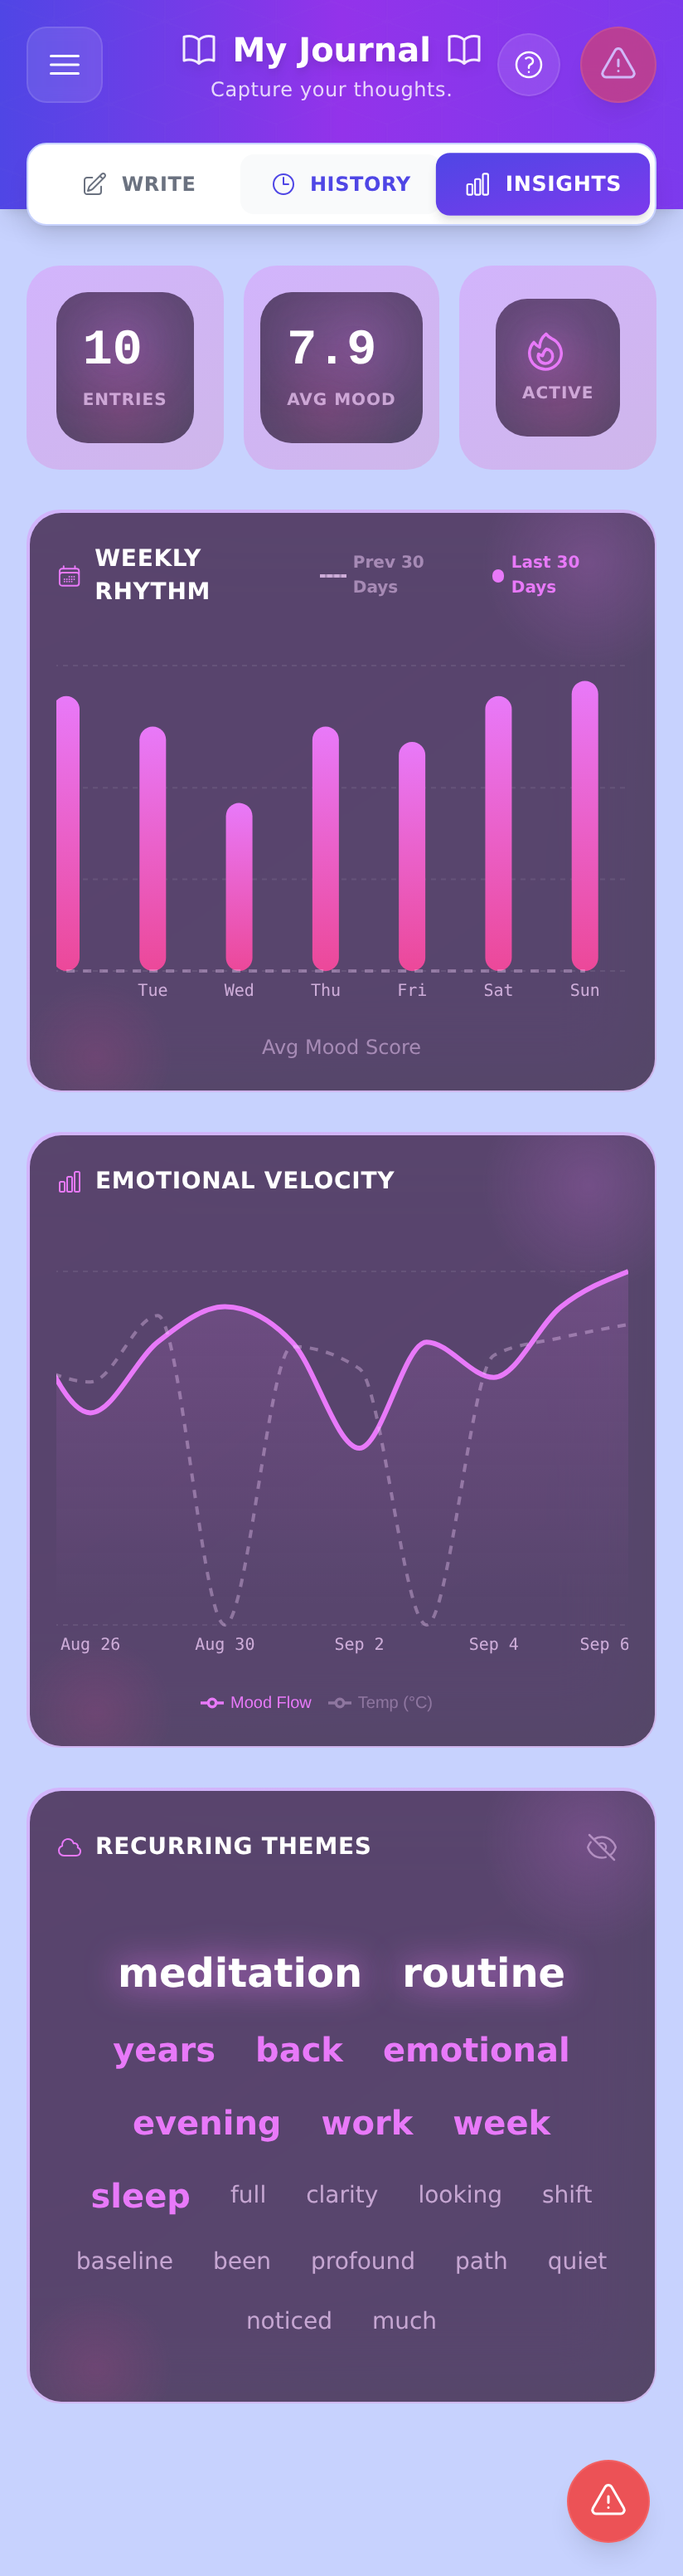
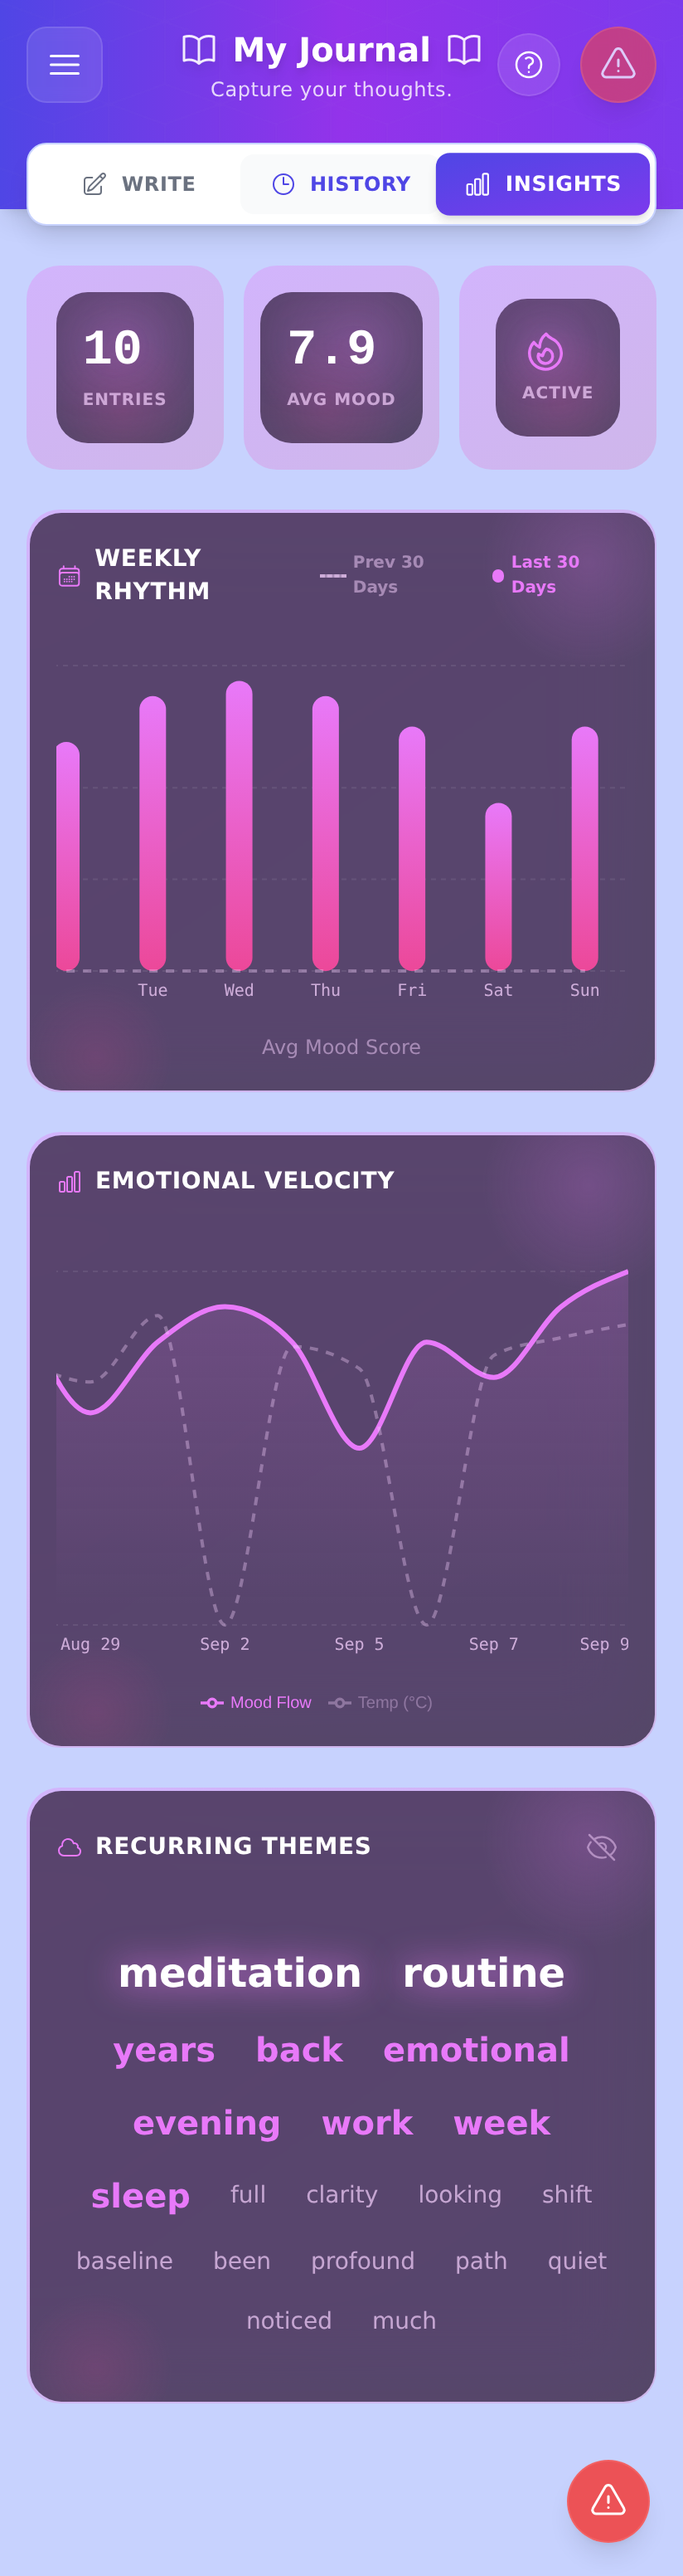
PROJ-63: fix Daily Image modal clobbering dashboard screenshot captures
The User Guide's ned-dashboard.webp showed the PROJ-113 Daily Inspirational
Image modal open on top of the dashboard, displaying a stale placeholder
graphic (Ned_The_Pink_Cloud.webp, a pre-PROJ-116 persona-card asset) instead
of the dashboard the guide's own caption promised.

Root cause: Dashboard.tsx's Daily Image trigger fires whenever
userProfile.lastSeenDailyImageDate !== today, with no "quiet first time"
branch (correct for real users). None of mockData.ts's 4 mock profiles ever
set this field, and mock sessions never persist patchFields writes anywhere
real -- so it's permanently "never seen today" in mock mode, and the modal
auto-pops on every dashboard-landing screenshot capture, for any persona,
forever. Just regenerating the screenshot would have reproduced the
identical bug with a fresh date.

Fixed at the root: seeded lastSeenDailyImageDate (computed as today at
module-load time) on all 4 mock profiles, matching the existing "mock users
start in a stable, past-onboarding state" pattern. Regenerated all 27
screenshots via npm run screenshots:generate; ned-dashboard.webp now shows
the clean dashboard, david-sos-modal.webp (which also lands on /dashboard
first) still captures correctly.

Ran through the planning protocol first (amends docs/projects/
63_SCREENSHOT_GENERATOR.md §6, Strategy B approved) since this is a root-
cause pipeline fix, not just a one-off image swap.

Claude-Session: https://claude.ai/code/session_019sLtEbV5d8XmGe1Aqf9Rsh

diff --git a/src/lib/mockData.ts b/src/lib/mockData.ts
@@ -1,3 +1,4 @@
+import { format } from 'date-fns';
 import type { Timestamp } from 'firebase/firestore';
 import type { UserProfile, JournalEntry, Task, WorkbookAnswer } from './db';
 import type { SavedInsight } from './insights';
@@ -9,6 +10,17 @@ const daysAgo = (days: number): Date => {
     d.setDate(d.getDate() - days);
     return d;
 };
+
+// PROJ-63 screenshot/local-dev mock profiles never persist patchFields writes
+// back anywhere real, so Dashboard.tsx's "have we shown today's Daily Image
+// yet" check (lastSeenDailyImageDate !== today) is permanently false for a
+// mock session -- the modal auto-pops on every single dashboard screenshot
+// capture, for any persona, showing useDailyImage.ts's stale placeholder
+// asset instead of the dashboard the screenshot is actually meant to show.
+// Seeding "already seen today" here closes that for good; anyone who wants
+// to actually test/screenshot the Daily Image feature itself can still
+// trigger it manually (see Dashboard.tsx's separate menu-item entry point).
+const TODAY_DATE_STRING = format(new Date(), 'yyyy-MM-dd');
 
 const hoursAgo = (hours: number): Date => {
     const d = new Date();
@@ -44,6 +56,7 @@ const NED_PROFILE: UserProfile = {
     substanceCost: 20,
     costFrequency: 'daily',
     currencySymbol: '$',
+    lastSeenDailyImageDate: TODAY_DATE_STRING,
     anchorSettings: {
         notifyCheckIn: true,
         notifyReading: true,
@@ -150,6 +163,7 @@ const MAYA_PROFILE: UserProfile = {
     substanceCost: 150,
     costFrequency: 'weekly',
     currencySymbol: '$',
+    lastSeenDailyImageDate: TODAY_DATE_STRING,
     anchorSettings: {
         notifyCheckIn: true,
         notifyReading: false,
@@ -235,6 +249,7 @@ const DAVID_PROFILE: UserProfile = {
     heroColor: 'rose',
     sponsorName: 'Sarah Jenkins',
     sponsorPhone: '555-0199',
+    lastSeenDailyImageDate: TODAY_DATE_STRING,
     anchorSettings: {
         notifyCheckIn: true,
         notifyReading: true,
@@ -302,6 +317,7 @@ const WALT_PROFILE: UserProfile = {
     substanceCost: 15,
     costFrequency: 'daily',
     currencySymbol: '$',
+    lastSeenDailyImageDate: TODAY_DATE_STRING,
     anchorSettings: {
         notifyCheckIn: true,
         notifyReading: true,

diff --git a/docs/projects/63_SCREENSHOT_GENERATOR.md b/docs/projects/63_SCREENSHOT_GENERATOR.md
@@ -82,3 +82,15 @@ We will introduce a **Mock Mode** toggled by a URL query parameter `?mockUser=[p
 * [ ] **Unit Tests**: Add unit tests in `src/__tests__/mockMode.test.ts` to ensure query param logging bypasses production Firestore and encryption.
 * [ ] **Lint & Build**: Run `npm run check` to ensure zero linter errors or warnings.
 * [ ] **Screenshot Execution**: Execute `npm run screenshots:generate`. Verify that the `.webp` files appear correctly in `docs-site/public/screenshots/generated/` and that the visual quality and layouts are correct.
+
+---
+
+## 6. Amendment: Daily Image Modal Clobbering Dashboard Captures (2026-09-09)
+
+**Symptom:** the User Guide's `ned-dashboard.webp` (`docs-site/guide/02-dashboard.md`) showed the PROJ-113 Daily Inspirational Image modal open on top of the dashboard, displaying a stale placeholder graphic (`public/Marketing/Ned_The_Pink_Cloud.webp`, a pre-PROJ-116 persona-card asset) instead of the clean dashboard the guide's own caption promised.
+
+**Root cause:** `Dashboard.tsx`'s Daily Image trigger fires whenever `userProfile.lastSeenDailyImageDate !== today`, deliberately with no "quiet first time" branch (a real brand-new user should see today's image on day one). None of `mockData.ts`'s 4 mock profiles (`NED_PROFILE`/`DAVID_PROFILE`/`MAYA_PROFILE`/`WALT_PROFILE`) ever set this field, and mock sessions never persist `patchFields` writes anywhere real — so for a mock session, it's permanently "never seen today," and the modal auto-pops on **every** dashboard-landing screenshot capture, for any persona, on every future run. Also silently at risk: `david-sos-modal`'s capture also lands on `/dashboard` first before clicking the SOS button, racing the modal's `setTimeout(0)` open against the script's own click.
+
+**Fix:** seeded `lastSeenDailyImageDate: format(new Date(), 'yyyy-MM-dd')` (computed at mock-module-load time, so it's always "today" whenever screenshots are regenerated) on all 4 mock profiles in `src/lib/mockData.ts` — matching the existing "mock users start in a stable, past-onboarding state" pattern already used for `hasCompletedOnboarding: true`. Closes the bug at the root for every current and future dashboard-adjacent capture, rather than patching one script call site. The Daily Image feature is still fully testable locally via its separate manual menu-item trigger.
+
+**Verification:** ran through this file's own Planning Protocol (Strategy B approved) before implementing. Re-ran `npm run screenshots:generate` (all 27 captures) — `ned-dashboard.webp` now shows the clean dashboard with no modal; `david-sos-modal.webp` still captures the SOS panel correctly. `npm run check` clean (lint, docs:check-specs, 816/816 tests, build). 15 of the 27 regenerated screenshots differed from their prior versions (routine date/time-sensitive UI content, e.g. relative timestamps — not a regression); spot-checked several visually.
